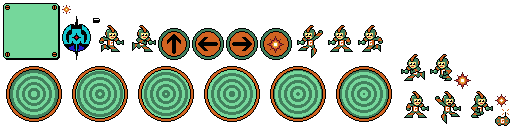
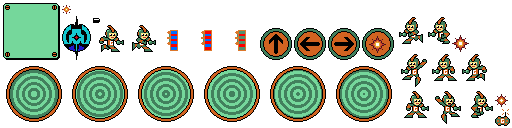
loaded boss assets

Changed region(s): [[0.2812, 0.125, 0.9375, 0.4688], [0.7812, 0.4062, 0.9688, 0.6875]]

diff --git a/core/src/com/pratik/libgdx/testios/Level.java b/core/src/com/pratik/libgdx/testios/Level.java
@@ -1,11 +1,9 @@
 package com.pratik.libgdx.testios;
 
 import com.badlogic.gdx.graphics.g2d.SpriteBatch;
-import com.badlogic.gdx.math.Rectangle;
 import com.badlogic.gdx.math.Vector2;
 import com.badlogic.gdx.utils.Array;
 import com.badlogic.gdx.utils.DelayedRemovalArray;
-import com.badlogic.gdx.utils.TimeUtils;
 import com.badlogic.gdx.utils.viewport.Viewport;
 import com.pratik.libgdx.testios.entities.*;
 import com.pratik.libgdx.testios.util.Constants;
@@ -14,6 +12,7 @@ import com.pratik.libgdx.testios.util.Enums;
 
 public class Level {
     GigaGal gigaGal;
+    Boss boss;
     public boolean gameOver = false;
     public boolean victory = false;
     private Array<Platform> platformArray;
@@ -82,7 +81,7 @@ public class Level {
         }
 
         exitPortal.render(batch);
-
+        boss.render(batch);
         batch.end();
         gigaGal.render(batch);
 
@@ -175,6 +174,10 @@ public class Level {
 
     public void setPowerups(Vector2 position) {
         powerups.add(new Powerup(position));
+    }
+
+    public void setBossPosition(Vector2 position) {
+        boss = new Boss(position);
     }
 
     public GigaGal getGigaGal() {

diff --git a/core/src/com/pratik/libgdx/testios/GameplayScreen.java b/core/src/com/pratik/libgdx/testios/GameplayScreen.java
@@ -44,7 +44,7 @@ public class GameplayScreen extends ScreenAdapter {
         //Assets
         AssetManager am = new AssetManager();
         Assets.instance.init(am);
-        level = LevelLoader.load("Level4", extendViewport);
+        level = LevelLoader.load("boss2", extendViewport);
         batch = new SpriteBatch();
         chaseCamera = new ChaseCam(extendViewport.getCamera(), level.gigaGal);
         gigaGalHud = new GigaGalHud();
@@ -126,6 +126,11 @@ public class GameplayScreen extends ScreenAdapter {
         level = LevelLoader.load("Level1", extendViewport);
         chaseCamera = new ChaseCam(extendViewport.getCamera(), level.gigaGal);
         resize(Gdx.graphics.getWidth(), Gdx.graphics.getHeight());
+        onScreenControls = new OnScreenControls(level);
+        victoryOverlay = new VictoryOverlay();
+        if (onMobile()) {
+            Gdx.input.setInputProcessor(onScreenControls);
+        }
     }
 
 

diff --git a/core/src/com/pratik/libgdx/testios/util/BossAssets.java b/core/src/com/pratik/libgdx/testios/util/BossAssets.java
@@ -1,0 +1,24 @@
+package com.pratik.libgdx.testios.util;
+
+import com.badlogic.gdx.graphics.g2d.Animation;
+import com.badlogic.gdx.graphics.g2d.TextureAtlas;
+import com.badlogic.gdx.graphics.g2d.TextureRegion;
+import com.badlogic.gdx.utils.Array;
+
+public class BossAssets {
+    public Animation<TextureRegion> bossAnimation;
+
+    public BossAssets(TextureAtlas atlas) {
+        Array<TextureAtlas.AtlasRegion> bossAnimationFrames =
+                new Array<TextureAtlas.AtlasRegion>();
+
+        bossAnimationFrames.add(atlas.findRegion(Constants.BOSS_FRAME_1));
+        bossAnimationFrames.add(atlas.findRegion(Constants.BOSS_FRAME_2));
+        bossAnimationFrames.add(atlas.findRegion(Constants.BOSS_FRAME_3));
+
+        bossAnimation = new Animation<TextureRegion>(
+                Constants.BOSS_COLOR_DURATION,
+                bossAnimationFrames,
+                Animation.PlayMode.LOOP);
+    }
+}

diff --git a/core/src/com/pratik/libgdx/testios/entities/Boss.java b/core/src/com/pratik/libgdx/testios/entities/Boss.java
@@ -1,0 +1,27 @@
+package com.pratik.libgdx.testios.entities;
+
+import com.badlogic.gdx.graphics.g2d.SpriteBatch;
+import com.badlogic.gdx.math.Vector2;
+import com.badlogic.gdx.utils.TimeUtils;
+import com.pratik.libgdx.testios.util.Assets;
+import com.pratik.libgdx.testios.util.Constants;
+import com.pratik.libgdx.testios.util.Util;
+
+
+public class Boss {
+    Vector2 position;
+    long startTime;
+
+    public Boss(Vector2 position) {
+        this.position = position;
+        startTime = TimeUtils.nanoTime();
+    }
+
+    public void render(SpriteBatch batch){
+        Util.drawTextureRegion(batch,
+                Assets.instance.
+                        bossAssets.bossAnimation.getKeyFrame(Util.secondsSince(startTime)),
+                position,
+                Constants.BOSS_CENTER);
+    }
+}

diff --git a/core/src/com/pratik/libgdx/testios/util/Assets.java b/core/src/com/pratik/libgdx/testios/util/Assets.java
@@ -24,7 +24,7 @@ public class Assets implements Disposable, AssetErrorListener {
     public ExplosionAssets explosionAssets;
     public PowerupAssets powerupAssets;
     public ExitPortalAssets exitPortalAssets;
-
+    public BossAssets bossAssets;
     private AssetManager assetManager;
     public OnScreenControlsAssets onScreenControlsAssets;
 
@@ -46,6 +46,7 @@ public class Assets implements Disposable, AssetErrorListener {
         powerupAssets = new PowerupAssets(atlas);
         exitPortalAssets = new ExitPortalAssets(atlas);
         onScreenControlsAssets = new OnScreenControlsAssets(atlas);
+        bossAssets = new BossAssets(atlas);
     }
 
     @Override

diff --git a/core/src/com/pratik/libgdx/testios/util/Constants.java b/core/src/com/pratik/libgdx/testios/util/Constants.java
@@ -157,4 +157,11 @@ public class Constants {
     public static final String FONT_FILE = "font/header.fnt";
 
     public static final int EXPLOSION_COUNT = 100;
+
+    public static final String BOSS_FRAME_1 = "Boss1";
+    public static final String BOSS_FRAME_2 = "Boss2";
+    public static final String BOSS_FRAME_3 = "Boss3";
+    public static final float BOSS_COLOR_DURATION = 3;
+    public static final String BOSS_SPRITE = "Boss1";
+    public static final Vector2 BOSS_CENTER = new Vector2(15,11);
 }

diff --git a/core/src/com/pratik/libgdx/testios/LevelLoader.java b/core/src/com/pratik/libgdx/testios/LevelLoader.java
@@ -74,6 +74,10 @@ public class LevelLoader {
                 final Vector2 position = lowerLeftCorner.add(Constants.POWERUP_CENTER);
                 level.setPowerups(position);
             }
+            else if(item.get(Constants.LEVEL_IMAGENAME_KEY).equals(Constants.BOSS_SPRITE)){
+                final Vector2 position = lowerLeftCorner.add(Constants.BOSS_CENTER);
+                level.setBossPosition(position);
+            }
         }
     }
 
